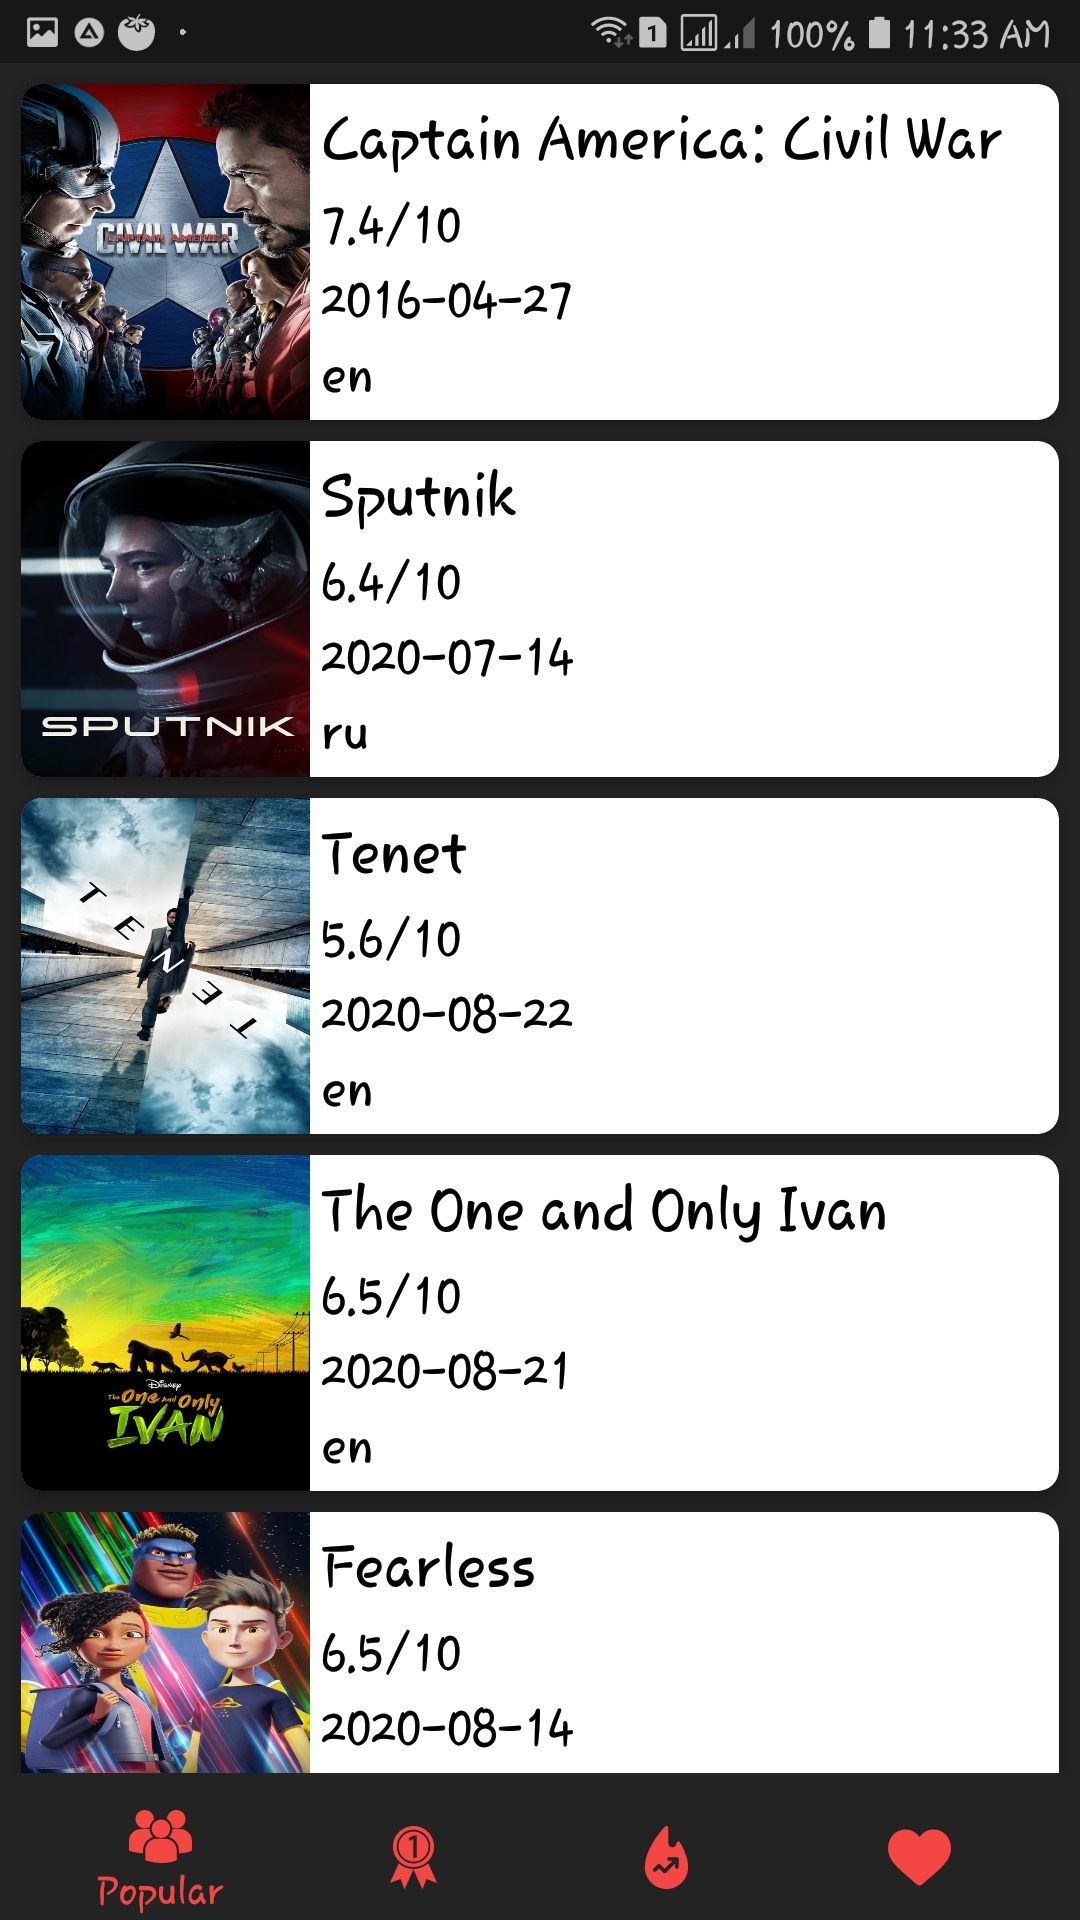
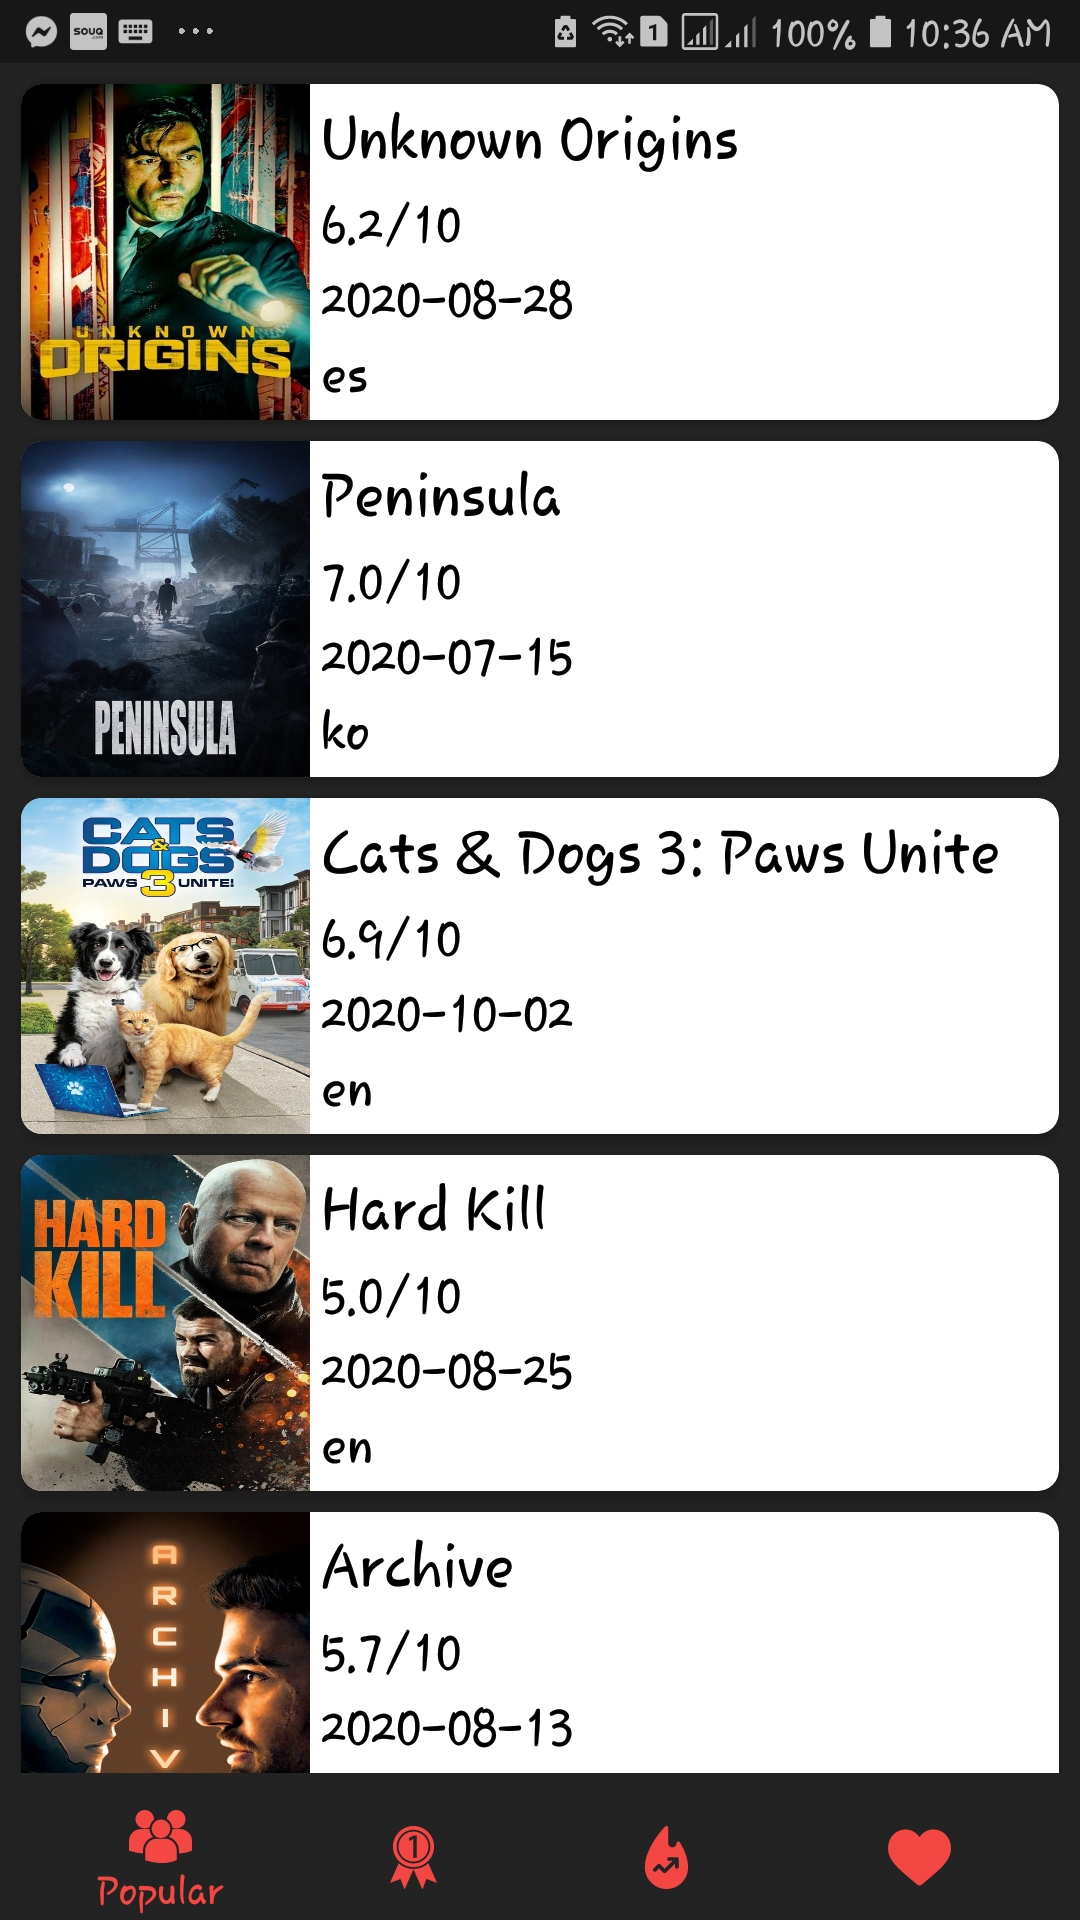
adding popular

diff --git a/app/src/main/java/com/example/moviesnews/MoviesRepository.kt b/app/src/main/java/com/example/moviesnews/MoviesRepository.kt
@@ -1,6 +1,7 @@
 package com.example.moviesnews
 
 import android.content.Context
+import database.MovieDao
 import network.MovieApi
 import di.RetrofitModule
 import di.RoomModule
@@ -8,15 +9,22 @@ import models.DetailedMovie
 import models.Model
 import models.Movie
 import models.Result
+import javax.inject.Inject
 
 const val BASE_URL = "https://api.themoviedb.org/3/movie/"
 private const val TAG = "MoviesRepository"
 private const val DATABASE_NAME = "movie-database"
+
+
+
 class MoviesRepository () {
 
     private val movieDao = RoomModule.getRoomDbInstance(getContext()).getMovieDao()
 
     private val movieApi:MovieApi = RetrofitModule.getMovieApi()
+
+//    @Inject lateinit var movieApi: MovieApi
+//    @Inject lateinit var movieDao: MovieDao
 
     /*
       Networking working

diff --git a/README.md b/README.md
@@ -8,6 +8,8 @@ Kotlin
 ---
 MVVM and Repository pattern
 ---
+Hilt
+---
 Coroutines
 ---
 Room
@@ -28,6 +30,9 @@ Picasso
 # Screen shots: 
 ---
 
+<p align="center">
+ <img src = "images/popular.jpg" width = "512">
+</p>
 
 <p align="center">
  <img src = "images/onward.jpg" width = "512">
